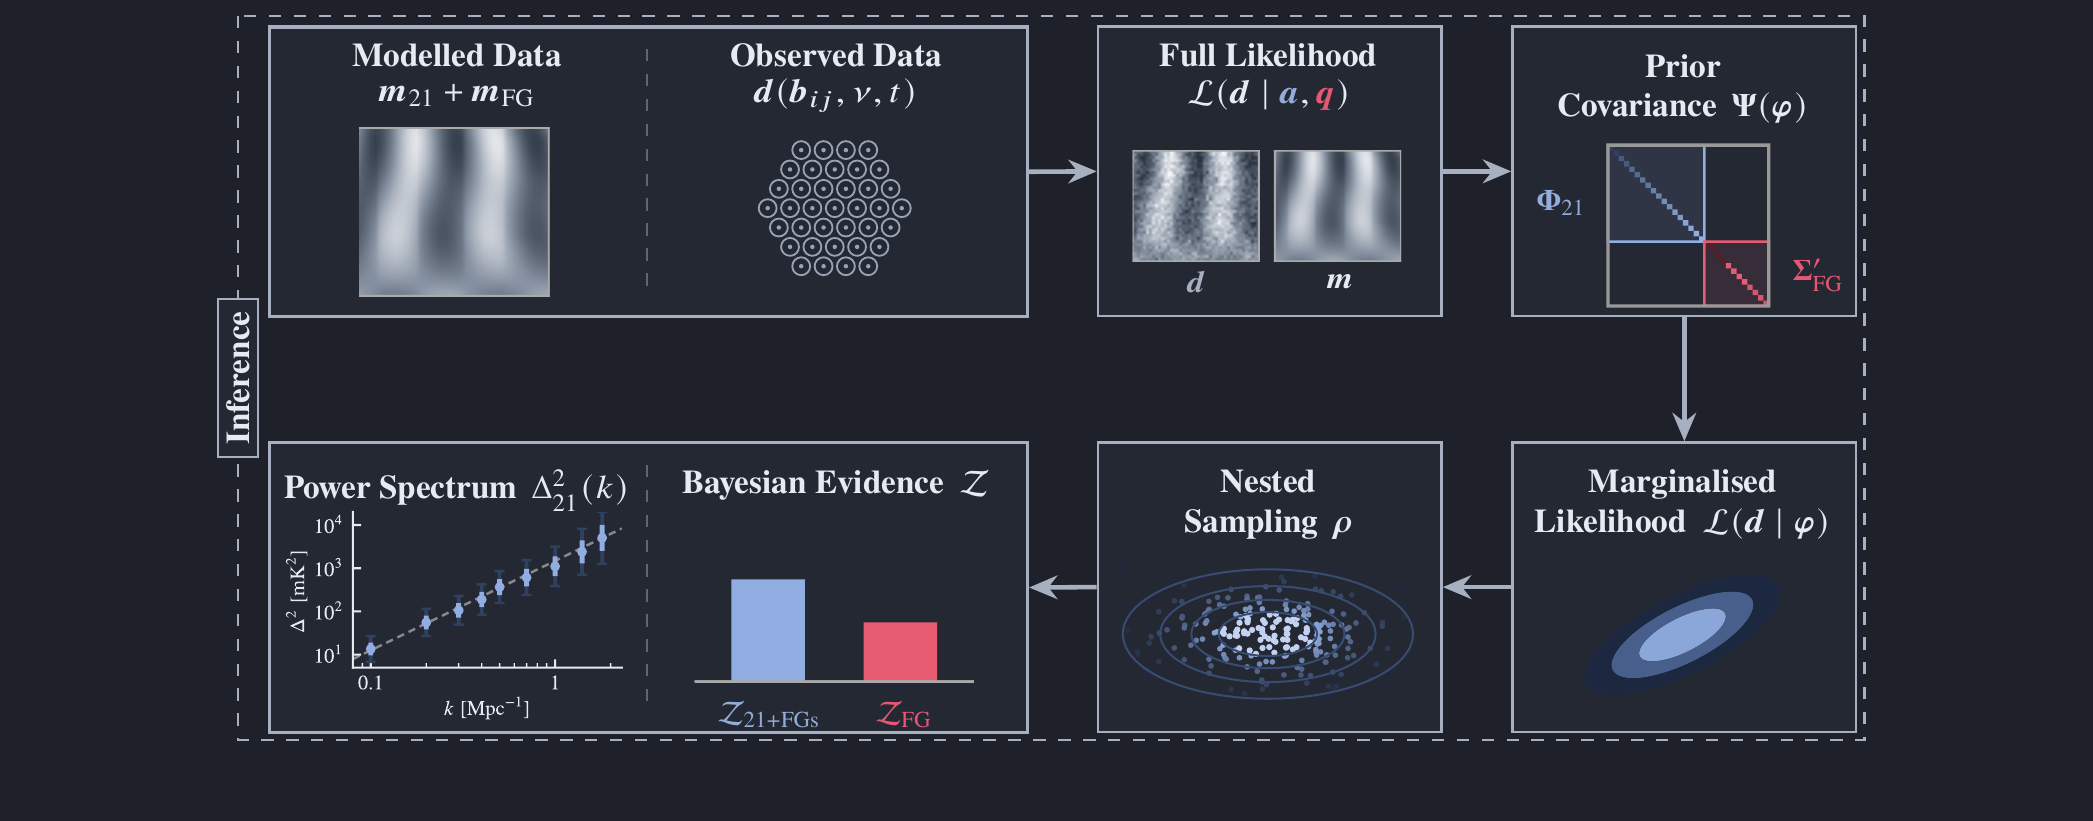
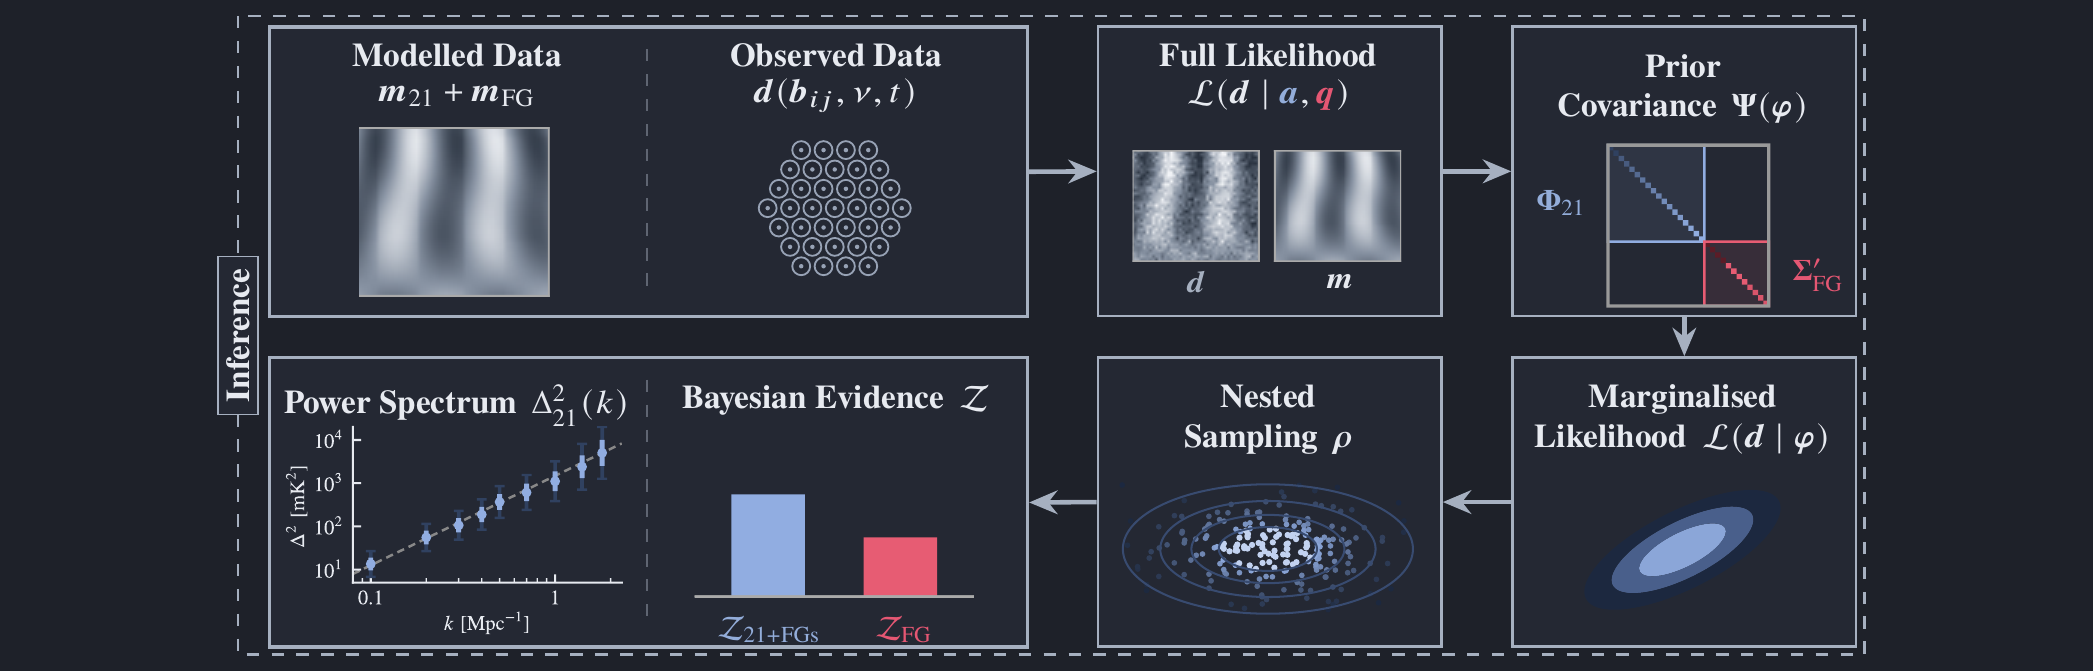
Tighten spacing between inference diagram rows

diff --git a/tools/docs_diagrams/inference_workflow.tex b/tools/docs_diagrams/inference_workflow.tex
@@ -1,12 +1,12 @@
 \input{style.tex}
 \begin{document}
 \begin{tikzpicture}[x=1cm,y=1cm]
-% Match the canvas and row spacing of the two-row model diagrams.
-\path[use as bounding box] (0,0.18) rectangle (17.65,-6.70);
+% Keep the model diagrams' display scale, with a tighter inference row gap.
+\path[use as bounding box] (0,0.18) rectangle (17.65,-5.43);
 \begin{scope}[xshift=1.78cm]
-\draw[instc,dashed,line width=0.7pt] (0.2,0.08) rectangle (13.97,-6.05);
+\draw[instc,dashed,line width=0.7pt] (0.2,0.08) rectangle (13.97,-5.33);
 \node[fill=panelbg,draw=instc,font=\footnotesize\bfseries,
-  inner xsep=3pt,inner ysep=2pt,rotate=90] at (0.2,-2.985) {Inference};
+  inner xsep=3pt,inner ysep=2pt,rotate=90] at (0.2,-2.625) {Inference};
 
 % Top row: compare model and observation, then introduce the coefficient prior.
 \node[panel=infc,minimum width=6.42cm,minimum height=2.45cm] (data) at (0.45,0) {};
@@ -35,7 +35,7 @@
 \draw[flow] (like.east)--(prior.west);
 
 % Bottom row runs right to left, completing the inference workflow.
-\begin{scope}[yshift=-0.27cm]
+\begin{scope}[yshift=0.45cm]
 \node[stage] (marg) at (10.98,-3.25) {};
 \node[ttl,anchor=north] at (12.435,-3.37) {Marginalised\\Likelihood\ \mdseries\,$\mathcal L(\bm d\mid\bm\varphi)$};
 \node[thumb] at (12.435,-4.90) {\includegraphics{icon_marginal.pdf}};

diff --git a/tools/docs_diagrams/README.md b/tools/docs_diagrams/README.md
@@ -7,8 +7,9 @@ inference. The Modelled Data panel uses the right-hand, noiseless waterfall
 from `icon_likelihood.pdf`. `inference_workflow.tex` contains the two-row
 inference-only workflow, with modelled data and observation in a shared input
 panel. All diagrams share `style.tex` and the thumbnails in `plots/`.
-The two-row model and inference diagrams share a fixed canvas and row spacing
-so their panels and text remain the same size when displayed at the same width.
+The two-row model and inference diagrams share a fixed canvas width so their
+panels and text remain the same size when displayed at the same width. The
+inference rows use a tighter gap because they need no intervening operator labels.
 
 The diagrams are schematic illustrations, not numerical outputs of a common
 model realisation. The cosmological cube thumbnails originate from supplied
